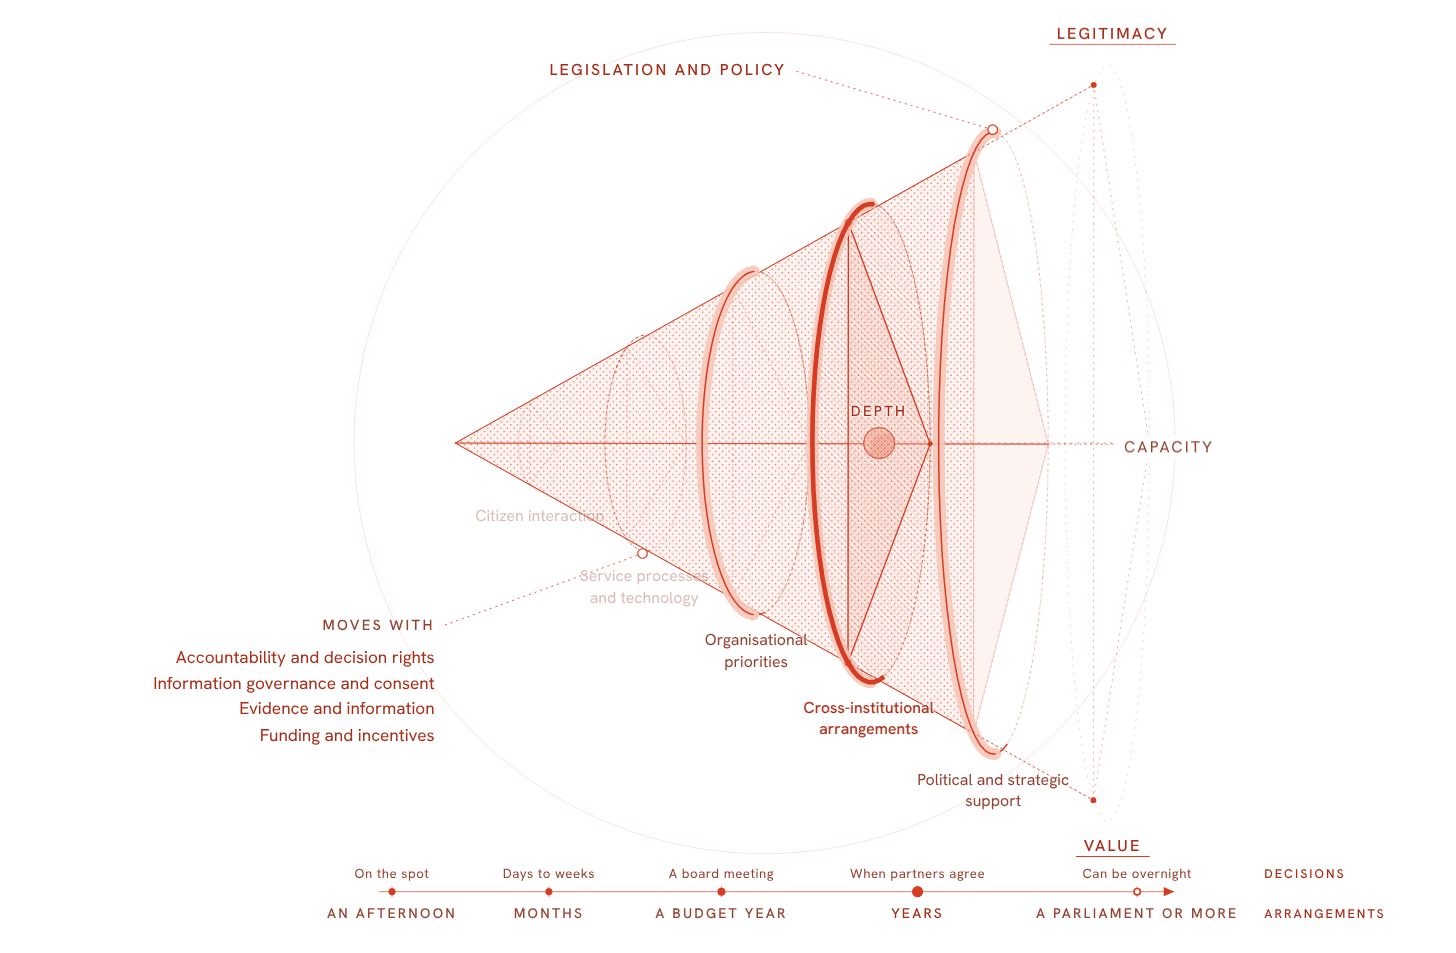
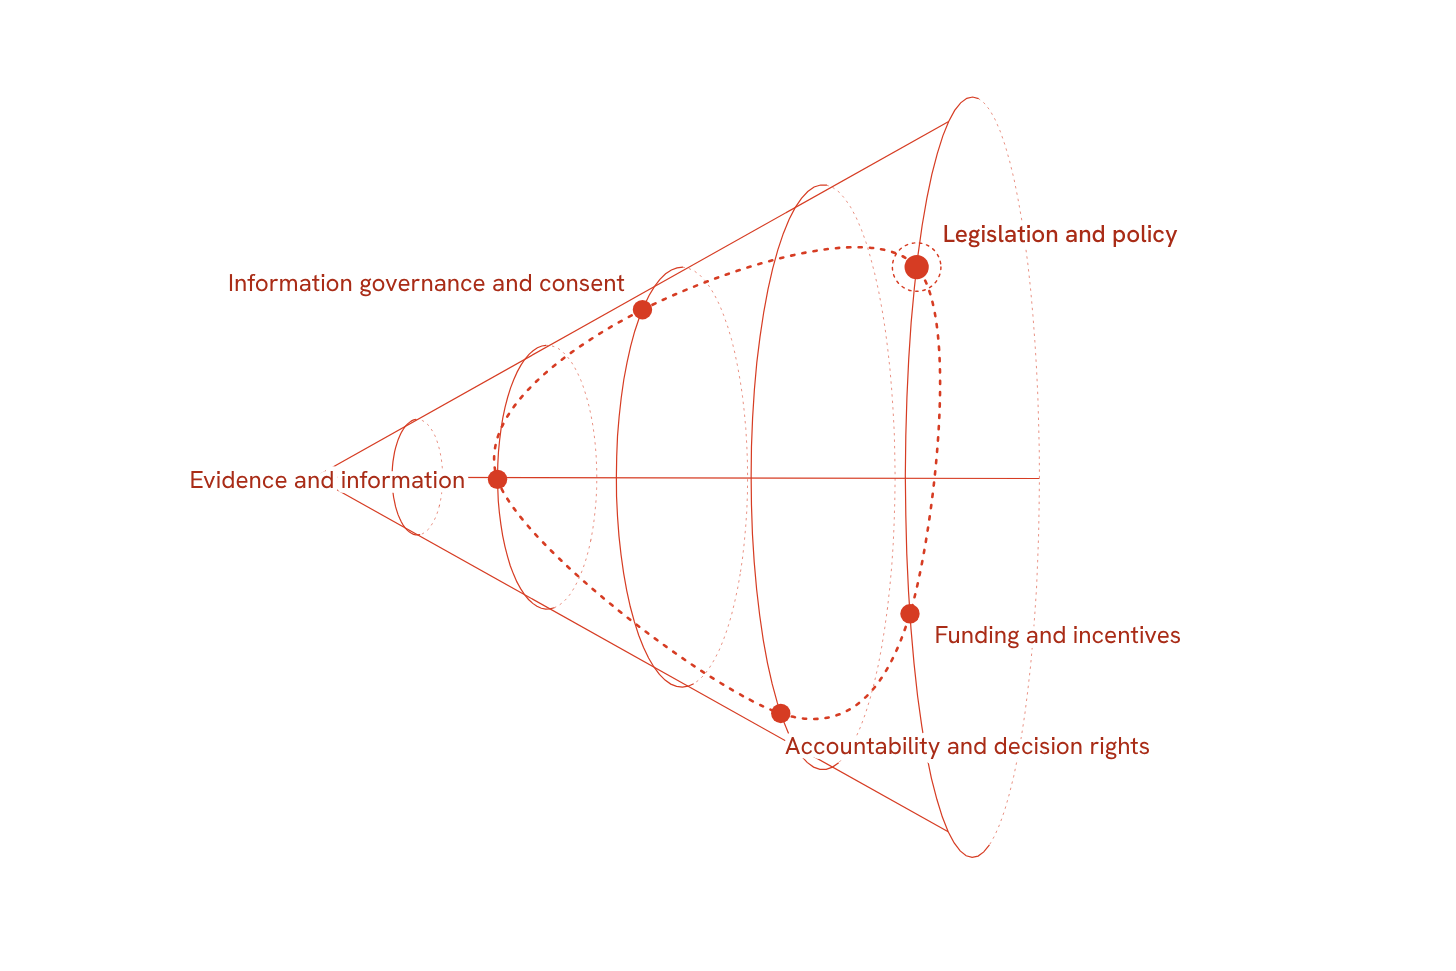
Strip the materials still back to one material and what it moves with
Only the cone's rings stay. Legislation and policy and the four materials it
moves with sit as points on the rings of layers they reach, joined by one
dotted loop through the layers, and only the materials are named.

Claude-Session: https://claude.ai/code/session_01Ed2Ec9Yoie7vScgGFT9Sup

diff --git a/prototypes/navigation/materials/capture.js b/prototypes/navigation/materials/capture.js
@@ -1,15 +1,24 @@
 // Exports a still of the materials model for the essay, cut from the live page so the image and
 // the prototype share one drawing.   NODE_PATH=$(npm root -g) node capture.js [outdir]
-// Needs Playwright with Chromium. Selects one material, waits for the model to settle, hides the
-// page's controls and notes, and adds two leaders in the page's own label style: one to the
-// selected material, one to the materials it moves with. Writes materials-depth.png, 1456 px wide
-// on white.
+// Needs Playwright with Chromium. Selects one material and waits for the model to settle, then
+// strips the page back to the rings of the layers. On it go the material and the materials it moves
+// with, each a point on the ring of a layer it reaches, joined by one dotted loop that runs through
+// the layers. Only the materials are named. Writes materials-depth.png, 1456 px wide on white.
 const { chromium } = require('playwright');
 const fs = require('fs');
 const path = require('path');
 const out = process.argv[2] || __dirname;
 const MATERIAL = 'legislation';
-const CLIP = { x: 150, y: 70, width: 1100, height: 720 };
+// where each sits: the layer (0 citizen interaction to 4 political and strategic support), and how
+// far round the front of that ring, 0 at the top to 1 at the bottom
+const PLACE = {
+  legislation: [4, 0.24],
+  funding: [4, 0.66],
+  accountability: [3, 0.86],
+  evidence: [1, 0.5],
+  'info-governance': [2, 0.14]
+};
+const CLIP = { x: 300, y: 110, width: 900, height: 600 };
 
 (async () => {
   const exe = fs.existsSync('/opt/pw-browsers/chromium') ? '/opt/pw-browsers/chromium' : undefined;
@@ -18,67 +27,66 @@ const CLIP = { x: 150, y: 70, width: 1100, height: 720 };
   await p.goto('file://' + path.join(__dirname, 'index.html'));
   await p.evaluate(() => document.fonts.ready);
   await p.waitForTimeout(500);
-  const name = await p.evaluate((id) => {
+  await p.evaluate((id) => {
     const m = window.MATERIALS.find(x => x.id === id);
     [...document.querySelectorAll('#mat-list button')].find(b => b.getAttribute('aria-label').indexOf(m.name) === 0).click();
-    return m.name;
   }, MATERIAL);
   await p.waitForTimeout(3500);
+  // only the cone and its rings stay
   await p.addStyleTag({ content: `
-    header.title, .meta, .note, .ctrl, nav.mats, details.about, #hint, svg.leader { display: none !important; }
-    .corner small { display: none !important; }
-    #essay-labels { position: fixed; inset: 0; pointer-events: none; z-index: 99; font-family: "Hanken Grotesk", "Helvetica Neue", Helvetica, Arial, sans-serif; }
-    #essay-labels svg { position: absolute; inset: 0; width: 100%; height: 100%; overflow: visible; }
-    #essay-labels .t { position: absolute; color: #a92c17; text-align: right; }
-    #essay-labels .name { font-weight: 500; font-size: 12px; letter-spacing: .14em; text-transform: uppercase; }
-    #essay-labels .head { font-weight: 500; font-size: 11px; letter-spacing: .16em; text-transform: uppercase; color: #93402f; margin-bottom: 6px; }
-    #essay-labels .list { font-size: 13px; line-height: 1.5; }
+    header.title, .meta, .note, .ctrl, nav.mats, details.about, #hint, svg.leader, .lbl, #layers { display: none !important; }
+    #frame-circle, #g-scale, .tri, .face, .far-tri, .vertex, .tri-dot, .sphere-base, .sphere-dots, .trail, .thread, .thread-end,
+    .arc-line, .arc-band, .edge-ext, .axis, .top-disc, .section, #sphere-clip + circle { display: none !important; }
+    .layer .ring-front { stroke-width: .75 !important; stroke-dasharray: none !important; opacity: 1 !important; animation: none !important; }
+    .layer .ring-back { opacity: .7 !important; }
+    .layer .ring-disc { fill: none !important; }
+    #essay { position: fixed; inset: 0; pointer-events: none; z-index: 99; }
+    #essay svg { position: absolute; inset: 0; width: 100%; height: 100%; overflow: visible; font-family: "Hanken Grotesk", "Helvetica Neue", Helvetica, Arial, sans-serif; }
   ` });
-  await p.evaluate(({ id, name }) => {
+  await p.evaluate(({ id, place }) => {
+    const NS = 'http://www.w3.org/2000/svg';
+    const INK = '#d63c23', TEXT = '#a92c17';
+    // the front of each layer's ring, ordered from the citizen end inwards
+    const rings = [...document.querySelectorAll('#scene .ring-front')]
+      .map(r => { const bb = r.getBBox(); return { r, cx: bb.x + bb.width / 2 }; })
+      .sort((a, b) => a.cx - b.cx).map(o => o.r);
+    function onRing(layer, t) {
+      const r = rings[layer], L = r.getTotalLength(), c = r.getScreenCTM();
+      // the path may run either way, so measure from whichever end is higher
+      const s = r.getPointAtLength(0), e = r.getPointAtLength(L);
+      const q = r.getPointAtLength((s.y < e.y ? t : 1 - t) * L);
+      return { x: c.a * q.x + c.c * q.y + c.e, y: c.b * q.x + c.d * q.y + c.f };
+    }
     const m = window.MATERIALS.find(x => x.id === id);
-    const links = m.links.map(l => window.MATERIALS.find(x => x.id === l).name);
-    // a point on one of the drawn arcs, in page coordinates: pick the path, then the point along it
-    function anchor(sel, pickPath, score) {
-      const best = pickPath([...document.querySelectorAll('#scene ' + sel)]);
-      const L = best.getTotalLength(), c = best.getScreenCTM();
-      let top = null;
-      for (let i = 0; i <= 60; i++) {
-        const q = best.getPointAtLength(L * i / 60), pt = { x: c.a * q.x + c.c * q.y + c.e, y: c.b * q.x + c.d * q.y + c.f };
-        if (!top || score(pt) > score(top)) top = pt;
-      }
-      return top;
+    const pts = [id].concat(m.links).map(k => {
+      const at = onRing(place[k][0], place[k][1]);
+      return { id: k, name: window.MATERIALS.find(x => x.id === k).name, x: at.x, y: at.y };
+    });
+    // one loop through all of them, in order round their middle, smoothed
+    const cx = pts.reduce((s, q) => s + q.x, 0) / pts.length, cy = pts.reduce((s, q) => s + q.y, 0) / pts.length;
+    const loop = pts.slice().sort((a, b) => Math.atan2(a.y - cy, a.x - cx) - Math.atan2(b.y - cy, b.x - cx));
+    const n = loop.length;
+    let d = 'M' + loop[0].x + ' ' + loop[0].y;
+    for (let i = 0; i < n; i++) {
+      const p0 = loop[(i - 1 + n) % n], p1 = loop[i], p2 = loop[(i + 1) % n], p3 = loop[(i + 2) % n];
+      d += ` C ${p1.x + (p2.x - p0.x) / 6} ${p1.y + (p2.y - p0.y) / 6} ${p2.x - (p3.x - p1.x) / 6} ${p2.y - (p3.y - p1.y) / 6} ${p2.x} ${p2.y}`;
     }
-    const longest = ps => ps.reduce((a, b) => b.getTotalLength() > a.getTotalLength() ? b : a);
-    // the top of the selected material's longest arc
-    const sel = anchor('.arc-line.first.front', longest, pt => -pt.y);
-    // the bottom of the dotted arc nearest the citizen end, a layer the selected material doesn't reach itself
-    const dep = anchor('.arc-line.dep.front', ps => ps.reduce((a, b) => b.getBBox().x < a.getBBox().x ? b : a), pt => pt.y);
-    const NS = 'http://www.w3.org/2000/svg', wrap = document.createElement('div');
-    wrap.id = 'essay-labels';
-    const svg = document.createElementNS(NS, 'svg');
-    wrap.appendChild(svg);
-    function leader(x1, y1, x2, y2) {
-      const l = document.createElementNS(NS, 'path');
-      l.setAttribute('d', `M${x1} ${y1} L${x2} ${y2}`);
-      Object.entries({ stroke: '#d63c23', 'stroke-width': .6, 'stroke-dasharray': '1 3.5', 'stroke-linecap': 'round', fill: 'none' }).forEach(([k, v]) => l.setAttribute(k, v));
-      svg.appendChild(l);
-      const c = document.createElementNS(NS, 'circle');
-      Object.entries({ cx: x2, cy: y2, r: 3.6, fill: '#fff', stroke: '#d63c23', 'stroke-width': .9 }).forEach(([k, v]) => c.setAttribute(k, v));
-      svg.appendChild(c);
-    }
-    function text(html, right, top) {
-      const t = document.createElement('div');
-      t.className = 't'; t.innerHTML = html;
-      t.style.right = (window.innerWidth - right) + 'px'; t.style.top = top + 'px';
-      wrap.appendChild(t);
-      return t;
-    }
-    leader(sel.x - 150, sel.y - 46, sel.x - 2, sel.y - 2);
-    text(`<div class="name">${name}</div>`, sel.x - 158, sel.y - 55);
-    leader(dep.x - 150, dep.y + 56, dep.x - 1, dep.y + 2);
-    text(`<div class="head">Moves with</div><div class="list">${links.join('<br>')}</div>`, dep.x - 158, dep.y + 49);
+    const wrap = document.createElement('div'); wrap.id = 'essay';
+    const svg = document.createElementNS(NS, 'svg'); wrap.appendChild(svg);
+    function add(tag, attrs) { const e = document.createElementNS(NS, tag); Object.entries(attrs).forEach(([k, v]) => e.setAttribute(k, v)); svg.appendChild(e); return e; }
+    add('path', { d, fill: 'none', stroke: INK, 'stroke-width': 1.6, 'stroke-dasharray': '2 5', 'stroke-linecap': 'round' });
+    pts.forEach(q => {
+      if (q.id === id) add('circle', { cx: q.x, cy: q.y, r: 15, fill: 'none', stroke: INK, 'stroke-width': .9, 'stroke-dasharray': '1.5 3', 'stroke-linecap': 'round' });
+      add('circle', { cx: q.x, cy: q.y, r: q.id === id ? 7.5 : 6, fill: INK });
+      // the name sits outside the loop, away from its middle
+      const ux = q.x - cx, uy = q.y - cy, ul = Math.hypot(ux, uy) || 1, off = q.id === id ? 26 : 20;
+      const tx = q.x + ux / ul * off, ty = q.y + uy / ul * off + 5;
+      const t = add('text', { x: tx, y: ty, 'text-anchor': ux > 12 ? 'start' : ux < -12 ? 'end' : 'middle', fill: TEXT,
+        'font-size': 15, 'font-weight': q.id === id ? 500 : 400, stroke: '#fff', 'stroke-width': 6, 'paint-order': 'stroke', 'stroke-linejoin': 'round' });
+      t.textContent = q.name;
+    });
     document.body.appendChild(wrap);
-  }, { id: MATERIAL, name });
+  }, { id: MATERIAL, place: PLACE });
   await p.waitForTimeout(200);
   await p.screenshot({ path: path.join(out, 'materials-depth.png'), clip: CLIP });
   await b.close();

diff --git a/prototypes/README.md b/prototypes/README.md
@@ -8,7 +8,7 @@ Only this folder is published, by `.github/workflows/pages.yml`, on any push to 
 
 **[navigation/](navigation/)** goes with *Tasting the organisational treacle*. A 3D sketch on one screen. The cone lies on its side, narrow citizen end on the left, and drifts on its own when left alone. Drag it any way, trackball style, and it turns all the way round in that direction; flick it and it tumbles, slows, then brings the nearest of six faces round (value, legitimacy, capacity and the edges between them). A note points at whatever is facing you. A dotted trail records where the experiment has settled, and each thing it turns up swells that layer and stretches that corner of the triangle, which keeps its straight edges, so the drawing ends up a different shape from the one it started as. Layer names sit under their rings, and a pace scale sits just below the drawing like a ruler, reading from an afternoon to a parliament or more; it holds still while the model turns, and both fade end on. End on, the three questions show under their corners. `og.png` is the share image. One self-contained HTML file, no libraries. Earlier versions are kept as snapshots, [v0.1.0](navigation/v0.1.0/), [v0.2.0](navigation/v0.2.0/), [v0.3.0](navigation/v0.3.0/), [v0.4.0](navigation/v0.4.0/) and [v0.5.0](navigation/v0.5.0/).
 
-**[navigation/materials/](navigation/materials/)** is the next step for the navigation model, kept at its own address so the original stays as it is. It adds the design materials of institutional change (legislation, contracts, review cycles, professional roles and the rest) as a Materials mode inside the same model, not a fourth axis. Pick a material and it lies across the rings it reaches, on the side of the corners it pulls on, with the materials it moves with as faint dotted arcs; pick a second to compare. The note says what it is, where it reaches, its pace, a question an experiment might ask, and, once probed, what an experiment might turn up and what changing it would need. Encountering, learning and changing stay separate: selecting is encountering, probing is learning and grows depth, and nothing on the page changes a material. With materials on, the pace ruler gains a second track for how fast a decision can be taken, which is not how fast the arrangement underneath changes. A walk-through follows a fictional service where people show they're still eligible. The materials, pair notes and the walk-through live in `materials.js`, apart from the drawing code. `capture.js` cuts an essay still from the live page, `materials-depth.png`, 1456 px wide: legislation and policy selected, its rings lit across the layers it reaches, the materials it moves with as dotted arcs, and two leaders naming them, with the page's controls and notes hidden. Materials v0.1.0, built on navigation v0.6.1.
+**[navigation/materials/](navigation/materials/)** is the next step for the navigation model, kept at its own address so the original stays as it is. It adds the design materials of institutional change (legislation, contracts, review cycles, professional roles and the rest) as a Materials mode inside the same model, not a fourth axis. Pick a material and it lies across the rings it reaches, on the side of the corners it pulls on, with the materials it moves with as faint dotted arcs; pick a second to compare. The note says what it is, where it reaches, its pace, a question an experiment might ask, and, once probed, what an experiment might turn up and what changing it would need. Encountering, learning and changing stay separate: selecting is encountering, probing is learning and grows depth, and nothing on the page changes a material. With materials on, the pace ruler gains a second track for how fast a decision can be taken, which is not how fast the arrangement underneath changes. A walk-through follows a fictional service where people show they're still eligible. The materials, pair notes and the walk-through live in `materials.js`, apart from the drawing code. `capture.js` cuts an essay still from the live page, `materials-depth.png`, 1456 px wide: the model stripped back to its rings, with legislation and policy and the materials it moves with as points on the layers they reach, joined by one dotted loop, and only the materials named. Materials v0.1.0, built on navigation v0.6.1.
 
 **[place/](place/)** goes with the same essay's "Experimentation as architecture" section, and is built like the navigation prototype: one page that draws the stack in code from a projection, in the same two tones, line weights and type, so it can turn later without a redraw. It opens on the organisation alone (labels on the left as in the thesis original, one emphasis on the place of work) and switches to side by side with the thesis neighbourhood (after Pagh & Cook 2023), where nature becomes culture and the neighbourhood scale becomes the place of work. The copy sits at the top of the page's script, so labels are easy to swap. `capture.js` exports the essay images from the page: `place-diagram-single`, `place-diagram` and `place-diagram-mobile`, each as a 1456 px PNG and an editable SVG. `alt.txt` holds the alt text. [v0.1.0](place/v0.1.0/) keeps the first, black-line version.
 
